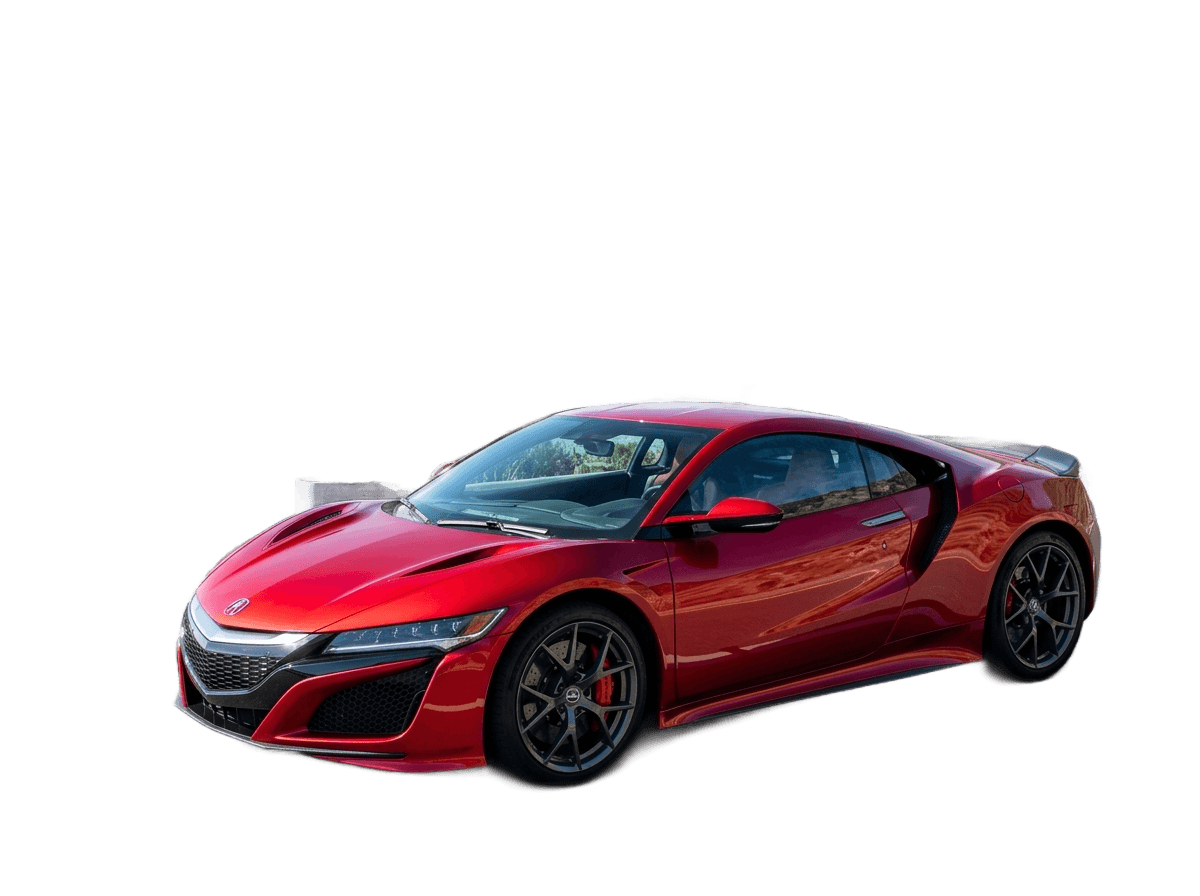
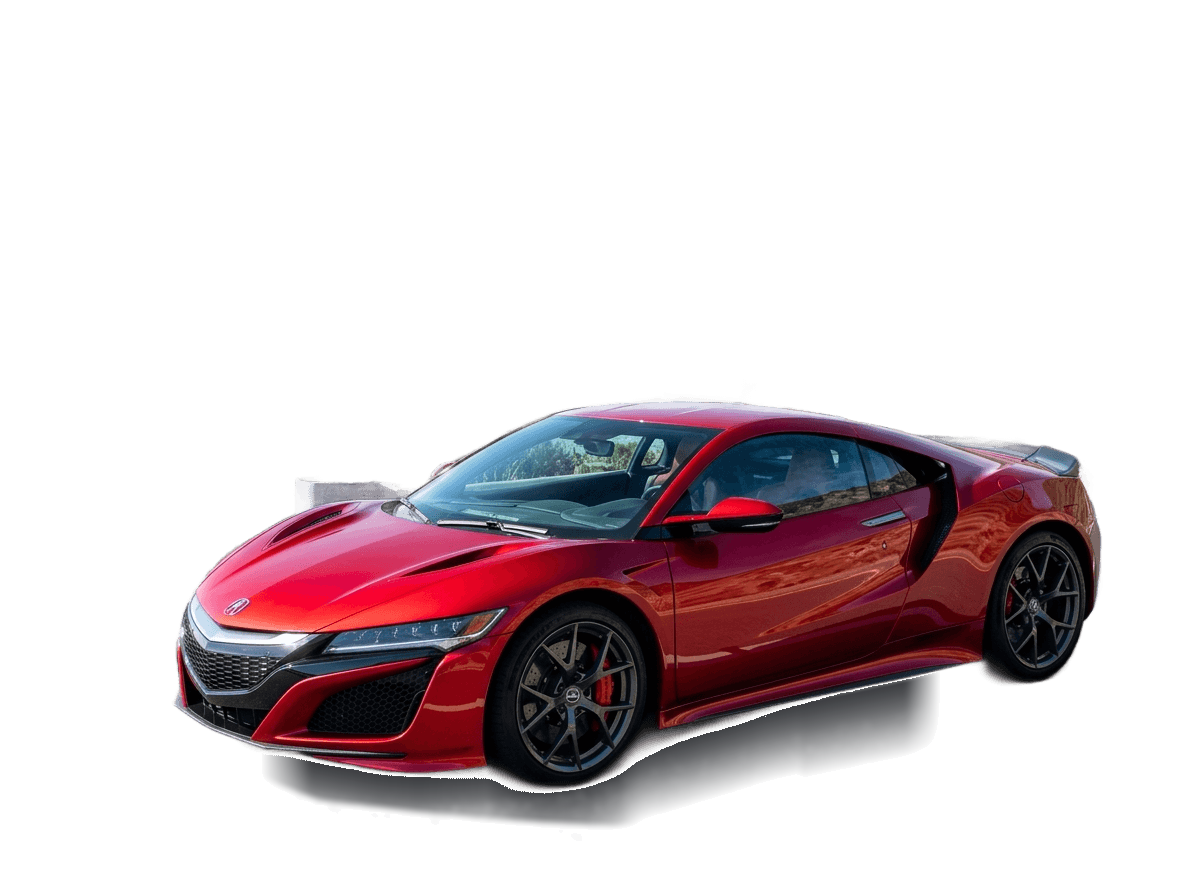
feat(automotive): preserve realistic ground contact shadow under tires and chassis

Changed region(s): [[0.2158, 0.75, 0.8017, 0.9375]]

diff --git a/public/compiled.css b/public/compiled.css
@@ -1997,6 +1997,10 @@
     --tw-shadow: 0 1px 3px 0 var(--tw-shadow-color, rgb(0 0 0 / 0.1)), 0 1px 2px -1px var(--tw-shadow-color, rgb(0 0 0 / 0.1));
     box-shadow: var(--tw-inset-shadow), var(--tw-inset-ring-shadow), var(--tw-ring-offset-shadow), var(--tw-ring-shadow), var(--tw-shadow);
   }
+  .shadow\! {
+    --tw-shadow: 0 1px 3px 0 var(--tw-shadow-color, rgb(0 0 0 / 0.1)), 0 1px 2px -1px var(--tw-shadow-color, rgb(0 0 0 / 0.1)) !important;
+    box-shadow: var(--tw-inset-shadow), var(--tw-inset-ring-shadow), var(--tw-ring-offset-shadow), var(--tw-ring-shadow), var(--tw-shadow) !important;
+  }
   .shadow-2xl {
     --tw-shadow: 0 25px 50px -12px var(--tw-shadow-color, rgb(0 0 0 / 0.25));
     box-shadow: var(--tw-inset-shadow), var(--tw-inset-ring-shadow), var(--tw-ring-offset-shadow), var(--tw-ring-shadow), var(--tw-shadow);

diff --git a/src/components/sections/HeroSection.tsx b/src/components/sections/HeroSection.tsx
@@ -25,7 +25,7 @@ const HERO_DEMOS = [
     url: "/samples/sample-car.jpg",
     cutoutUrl: "/samples/sample-car-cutout.png",
     icon: Car,
-    desc: "High-precision automotive cutouts isolating chassis contours, rims, and glass reflections from outdoor scenery.",
+    desc: "High-precision automotive cutouts isolating chassis contours and wheels while preserving authentic ground contact shadows.",
   },
   {
     id: "product",
